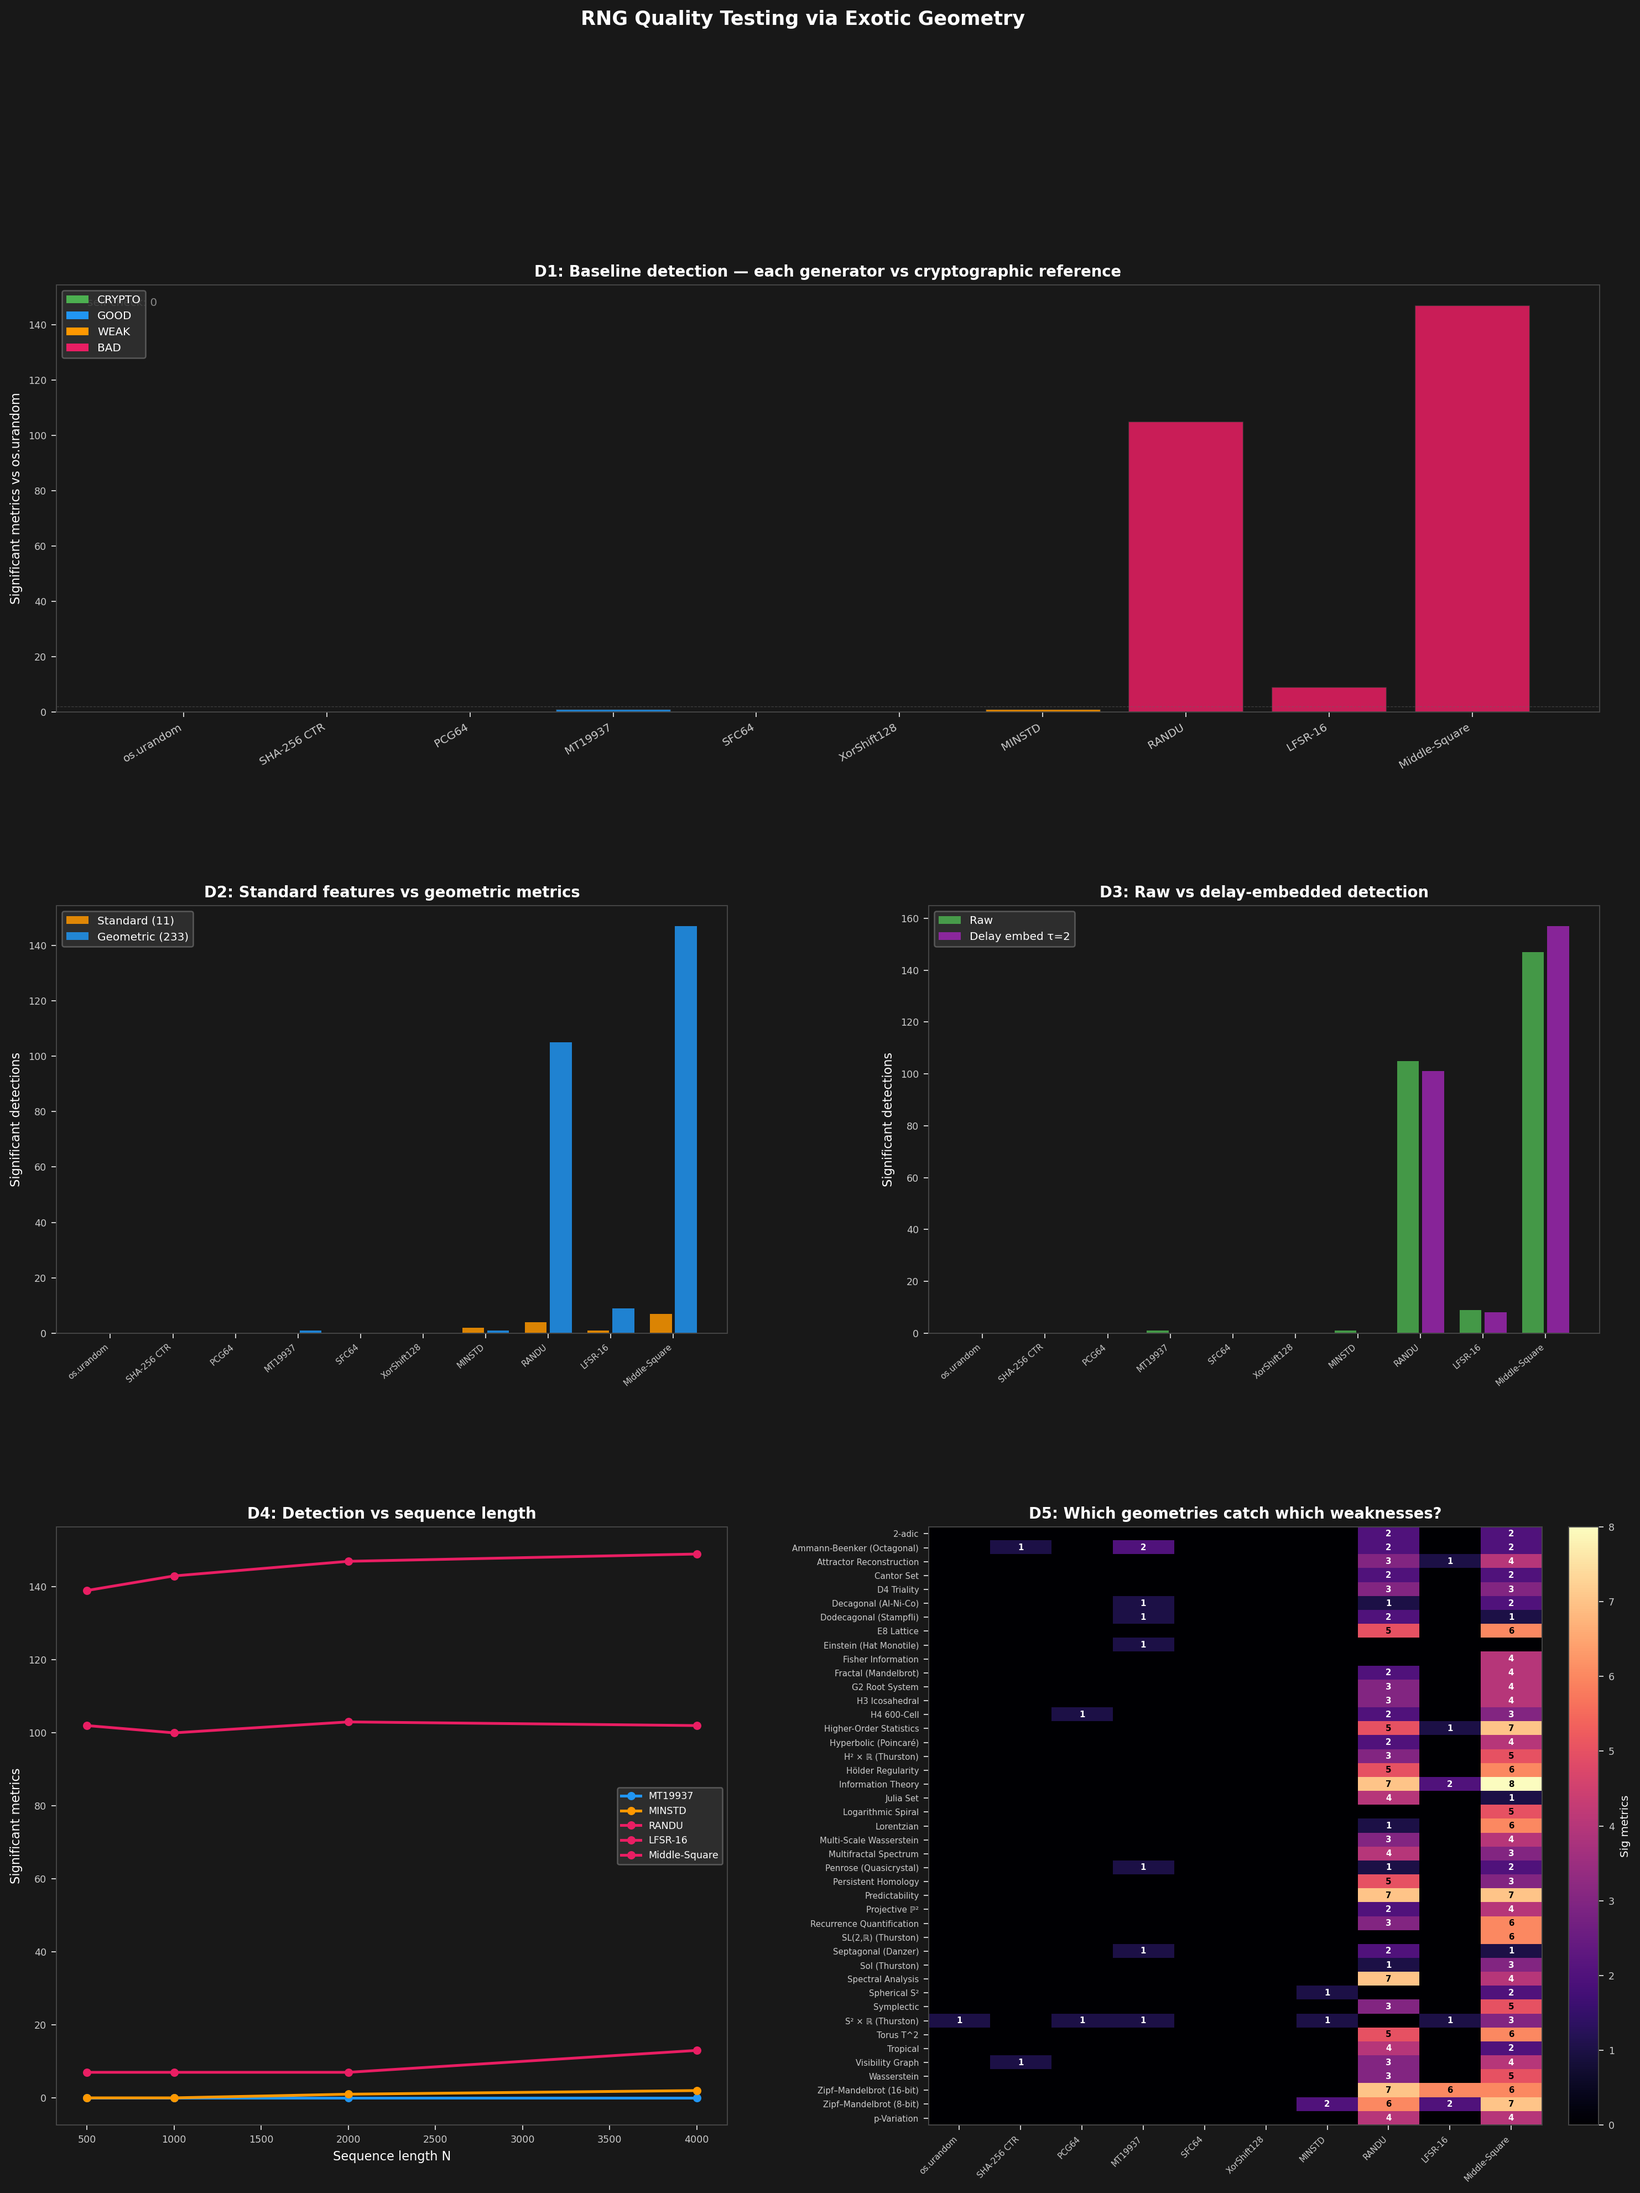
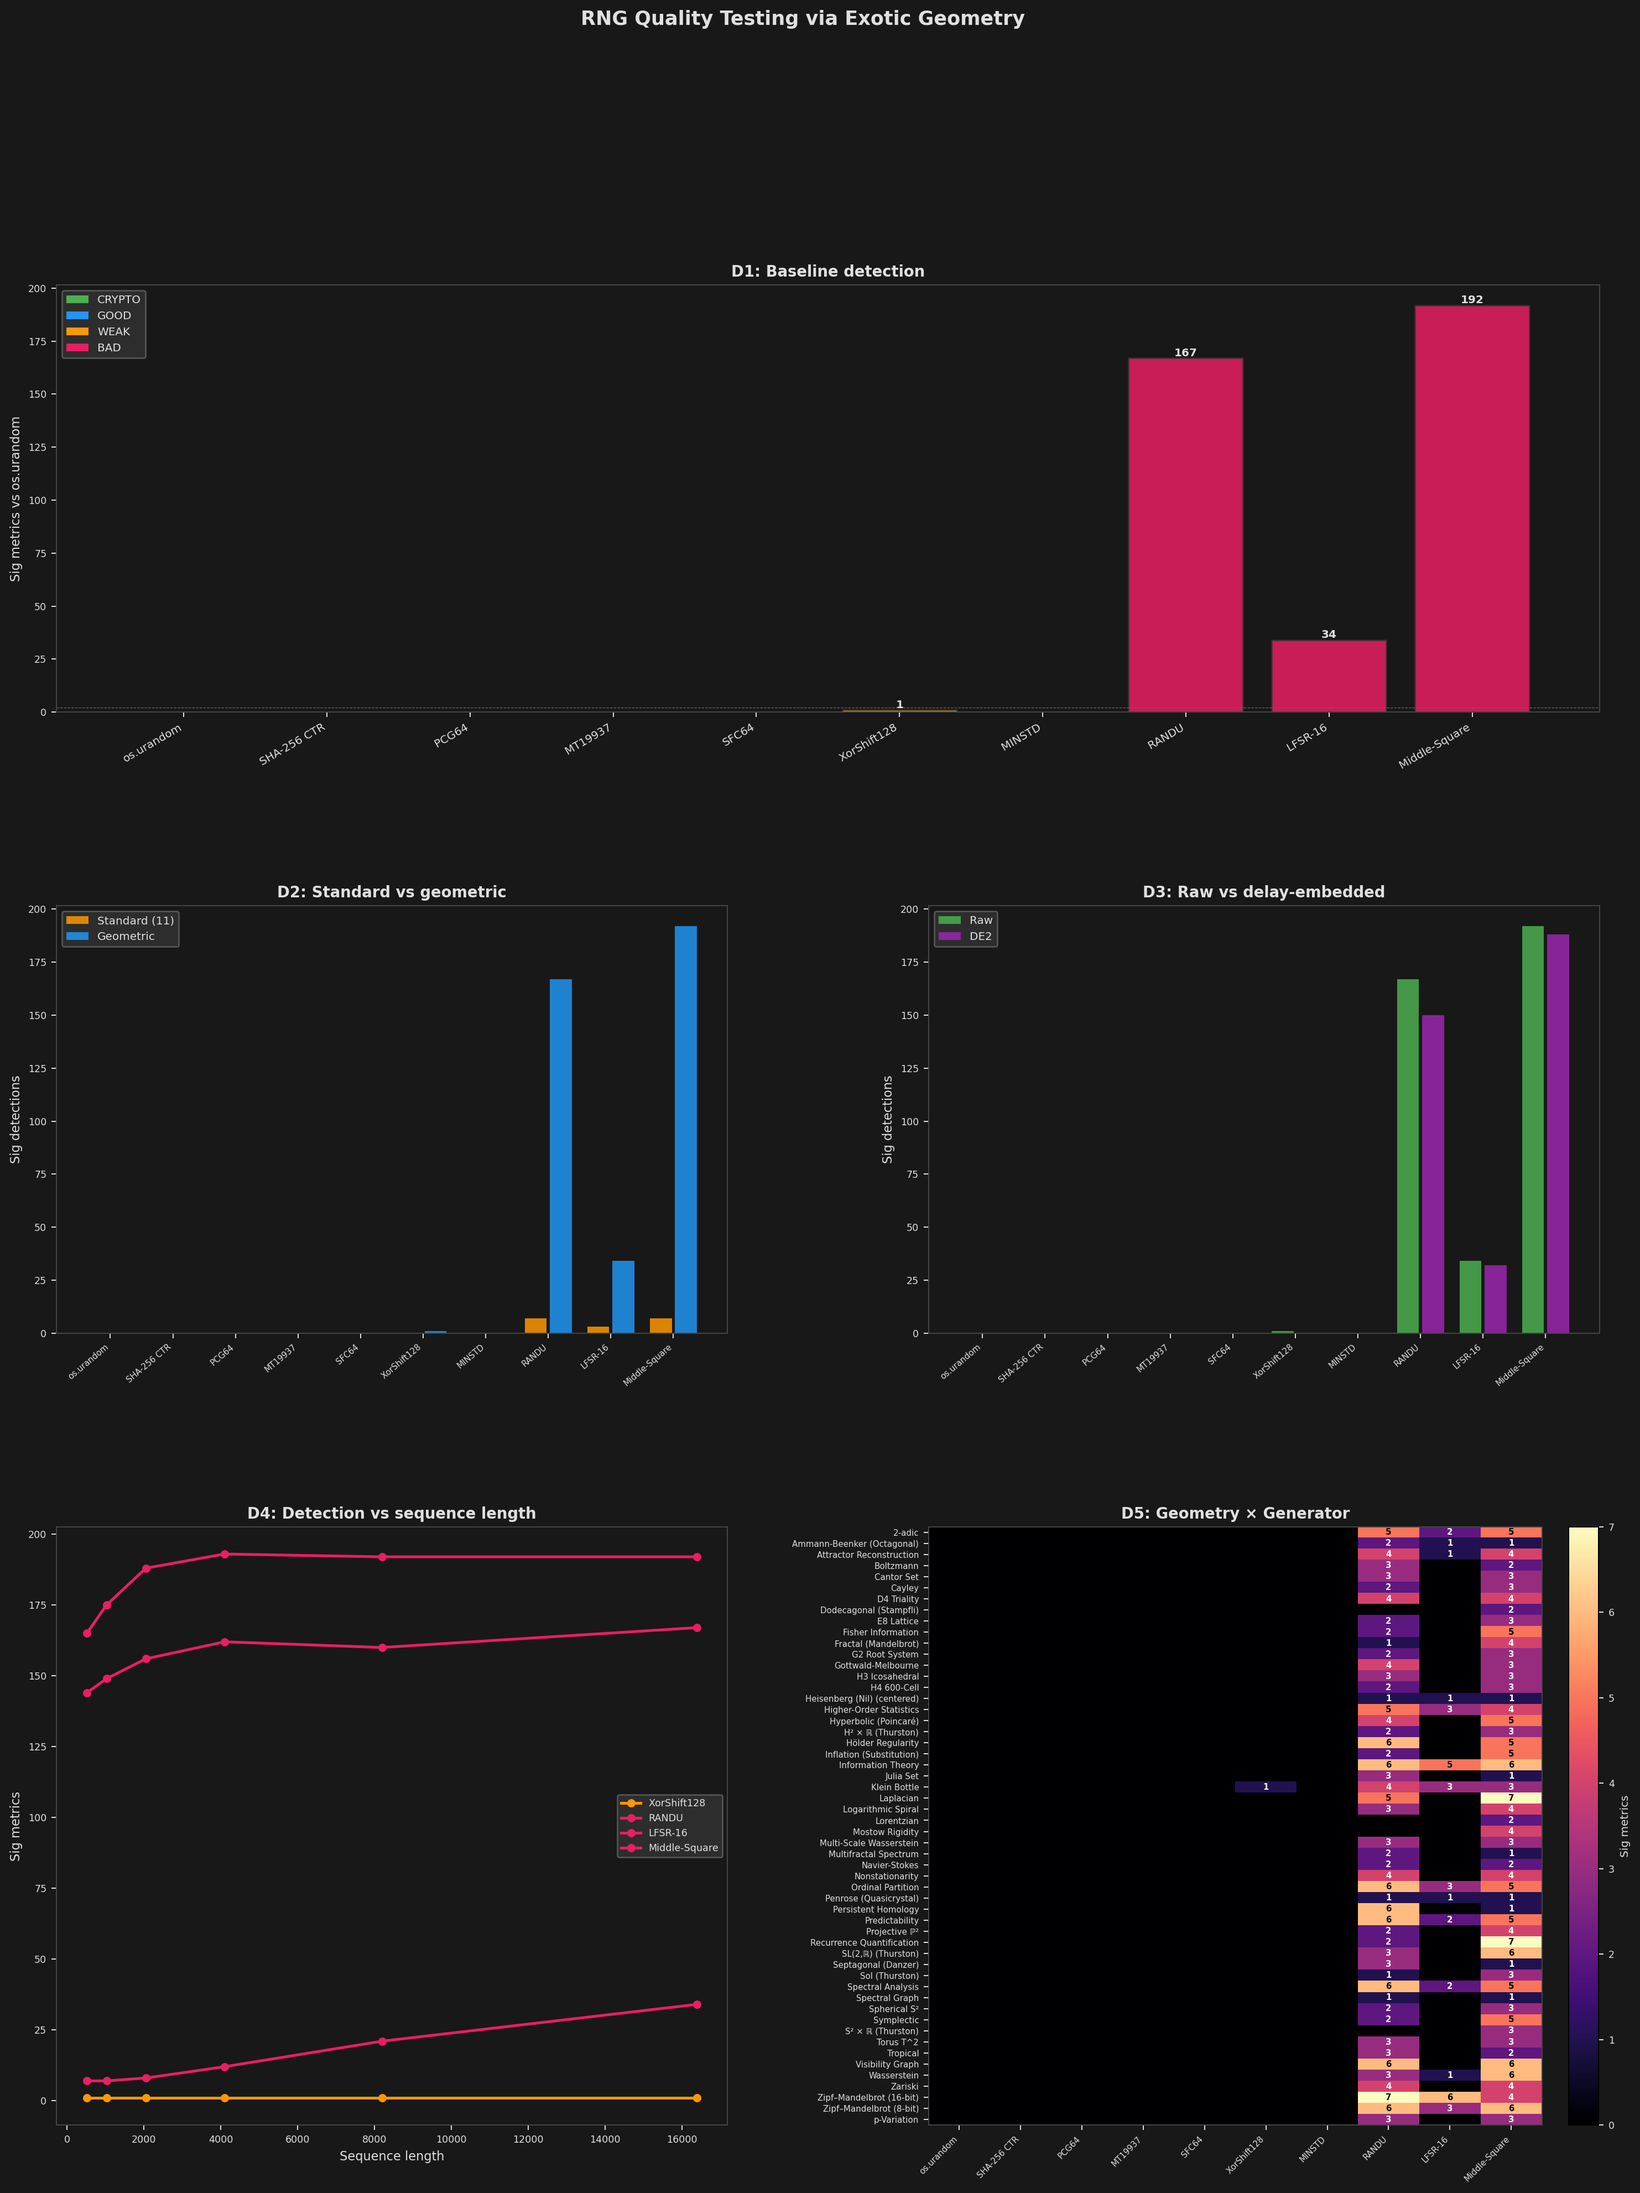
update README and some image locations

diff --git a/investigations/README.md b/investigations/README.md
@@ -1,6 +1,6 @@
 # Investigations
 
-67 self-contained investigation scripts demonstrating the framework across diverse domains.
+74 self-contained investigation scripts demonstrating the framework across diverse domains.
 
 ## Running
 
@@ -22,16 +22,16 @@ python investigations/2d/ecb_penguin.py
 
 Figures are saved to `figures/` (gitignored, generated on demand).
 
-## 1D Investigations (48)
+## 1D Investigations (55)
 
 | Script | Domain | Key Result | Dependencies |
 |--------|--------|------------|-------------|
 | `1d/hashes.py` | Hash functions (MD5, SHA-1, SHA-256, SHA-3, BLAKE2) | 0 significant differences from random. Validates methodology. | hashlib |
 | `1d/prng.py` | PRNGs (RANDU, LCG, MT19937, XorShift) | RANDU d=-19.89, glibc LCG d=-15.00. MT19937 passes. | numpy |
 | `1d/ciphers.py` | Cipher modes (ECB, CTR, CBC) | ECB d=19-146, stream/block CTR invisible. | pycryptodome |
-| `1d/reduced_aes.py` | Reduced-round AES (1-10 rounds) | Sharp cliff at R=4: 40 metrics → 0 metrics. | pycryptodome |
+| `1d/reduced_aes.py` | Reduced-round AES (1-10 rounds) | Cliff R=3→R=4: 29→0 sig. 148 at R=1 (85 marginal, 63 sequential). 15 geometries survive R=3. | pycryptodome |
 | `1d/stego.py` | LSB steganography via bitplane | 1 sig metric (Fisher d=1.06) via LSB correlation. | numpy |
-| `1d/stego_deep.py` | Advanced stego (6 techniques) | PVD: 42 sig raw bytes. Matrix embed: invisible. Bitplane: 0 sig. | numpy, scipy |
+| `1d/stego_deep.py` | Advanced stego (6 techniques) | PVD: 90 sig, SS: 93 sig raw bytes. PVD detectable at 5% rate. Matrix embed: invisible. Bitplane: 0 sig. | numpy, scipy |
 | `1d/chaos.py` | 10 chaotic maps (logistic, Henon, Lorenz, ...) | 10/10 detected, 45/45 pairwise distinguished. | numpy |
 | `1d/dna.py` | DNA sequences (8 organism types) | 291 significant findings. All types distinguishable. | numpy |
 | `1d/nn_weights.py` | Neural network weights | Backdoor detected (d=7.12). Dense vs conv d=11.9. | numpy |
@@ -40,12 +40,12 @@ Figures are saved to `figures/` (gitignored, generated on demand).
 | `1d/collatz_deep.py` | Deep Collatz I: phase transitions | Sharp k=1→2 boundary (86→35 sig). Tropical slopes match theory. | numpy, scipy |
 | `1d/collatz_deep2.py` | Deep Collatz II: convergence anatomy | 45 convergence-specific metrics. Composition order matters. 37 drift detectors. | numpy, scipy |
 | `1d/primes.py` | Prime number sequences (7 encodings) | 7/7 detected, 21/21 pairwise. Primes vs Cramér model: 55 sig. All ordering-dependent. | numpy, scipy |
-| `1d/primes_deep.py` | Deep prime gaps: what Cramér misses | 52 pure-primality metrics. Sieved Cramér closes gap 54→30. 31 always-sig across scales. | numpy, scipy |
+| `1d/primes_deep.py` | Deep prime gaps: what Cramér misses | 93 pure-primality metrics. 2-adic dominates (d=111). Dist-matched: 52 sequential survivors. 75 always-sig across scales. | numpy, scipy |
 | `1d/number_theory.py` | Arithmetic functions (μ, λ, d, φ, Ω, Mertens, ζ zeros) | 8/8 detected. Mertens vs random walk: 37 sig (beyond RH). All ordering-dependent. | numpy, scipy, mpmath |
 | `1d/continued_fractions.py` | CF coefficients of √2, √3, e, π, ln 2 | π vs Gauss-Kuzmin = 0 sig (passes iid test). π ordering = 0. ln 2 vs GK = 11. | numpy, scipy, mpmath |
-| `1d/rng.py` | RNG quality testing | 10 generators: RANDU=44 sig, Middle-Square=78 | numpy |
+| `1d/rng.py` | RNG quality testing | 10 generators: RANDU=167 sig, Middle-Square=192, XorShift128=1 (Klein Bottle only). MINSTD invisible. 5/5 CRYPTO/GOOD clean. | numpy |
 | `1d/noise_robustness.py` | Noise robustness | 2-4x more noise-tolerant than standard tests | numpy |
-| `1d/noise_deep.py` | Deep noise analysis | IAAFT surrogate decomposition | numpy, scipy |
+| `1d/noise_deep.py` | Deep noise analysis | D4 best at moderate noise (SNR +6dB). Heartbeat stochastic resonance (+18% at noise=0.3). QC geometries 0% survival at noise=0.5. | numpy, scipy |
 | `1d/seti.py` | SETI signal detection | Chaotic modulation at -20dB | numpy |
 | `1d/ai_text.py` | AI text detection | Byte-level text geometry | numpy |
 | `1d/text_geometry.py` | Text structure | Order-2 Markov fools geometry | numpy |
@@ -60,15 +60,21 @@ Figures are saved to `figures/` (gitignored, generated on demand).
 | `1d/primes_deep2.py` | Deep primes II | 14 dist-matched survivors, time-irreversibility | numpy, scipy |
 | `1d/proteins.py` | Protein sequences | Globular vs IDP: 53 sig | numpy |
 | `1d/unsolved.py` | Goldbach's comet | g(2n) vs Hardy-Littlewood: 17 sig beyond HL | numpy, scipy, mpmath |
-| `1d/metric_characterization.py` | Metric analysis | Per-metric sensitivity profiling | numpy |
+| `1d/metric_characterization.py` | Metric analysis | Septagonal most orthogonal (MaxCorr=0.225). 43 dark sensors. 93 needle detectors. | numpy |
 | `1d/structure_vs_chaos.py` | Structure vs chaos | Boundary analysis | numpy |
 | `1d/julia_sweep.py` | Julia set sweep | Parameter space geometry | numpy |
 | `1d/bearing_fault.py` | Bearing faults (CWRU) | 4 conditions, fractal specialization | numpy, scipy |
 | `1d/bearing_fault_baseline.py` | Bearing baseline | Exotic vs standard features | numpy, scipy, scikit-learn |
 | `1d/bearing_fault_ml.py` | Bearing ML | SVM classifier on geometry | numpy, scikit-learn |
-| `1d/structure_atlas.py` | Structure Atlas | 56 sources, 13 domains, 7.7D space | numpy, scipy, h5py |
+| `1d/structure_atlas.py` | Structure Atlas | 202 sources, 16 domains, PR=8.6 (was 7.2) | numpy, scipy, h5py |
 | `1d/math_constants.py` | Math constants | CF taxonomy, representation fingerprints | numpy, mpmath |
 | `1d/mandelbrot_sensor_test.py` | Mandelbrot test | Fractal geometry validation | numpy |
+| `1d/signature_space.py` | Signature space PCA | PR=8.6, 7 PCs interpreted. 18/18 new sources break 7D. Blind spots: heavy tails, space-filling curves. | numpy, scipy |
+| `1d/chaos_deep.py` | Route to chaos (logistic) | Lyapunov tracking: correlation_dimension r=0.923. Byte mode 33% more detections than unit. | numpy, scipy |
+| `1d/number_theory_deep.py` | Additive number theory | σ(n)/n: 222 sig, digit_sum: 224 sig. partition_fn: 8 sig (nearly invisible). | numpy, scipy |
+| `1d/geometry_ablation.py` | Geometry ablation study | D1/D2/D3: do named geometries earn their keep? | numpy, scipy |
+| `1d/per_metric_ablation.py` | Per-metric 2×2 classification | Headline/workhorse/scientific/dead per metric | numpy, scipy |
+| `1d/negative_reeval.py` | Negative result re-evaluation | 3 reclassified positive: Standard Map (44), Arnold Cat (19), GARCH (29) | numpy, scipy |
 
 
 ## 2D Investigations (19)

diff --git a/docs/investigations/EEG_FINDINGS.md b/docs/investigations/EEG_FINDINGS.md
@@ -70,7 +70,7 @@ Rest and sleep have the same temporal dynamics, the same entropy structure, the
 same topological signatures. The spectral slope difference is real but it measures
 frequency content, not structural organization.
 
-**Visual confirmation**: The polar comparison figure (`figures/eeg_oiris_polar.png`)
+**Visual confirmation**: The polar comparison figure (`docs/figures/eeg_oiris_polar.png`)
 shows rest (blue) and sleep (purple) completely interleaved in the EGF panel while
 separated in the O.IRIS panel.
 
